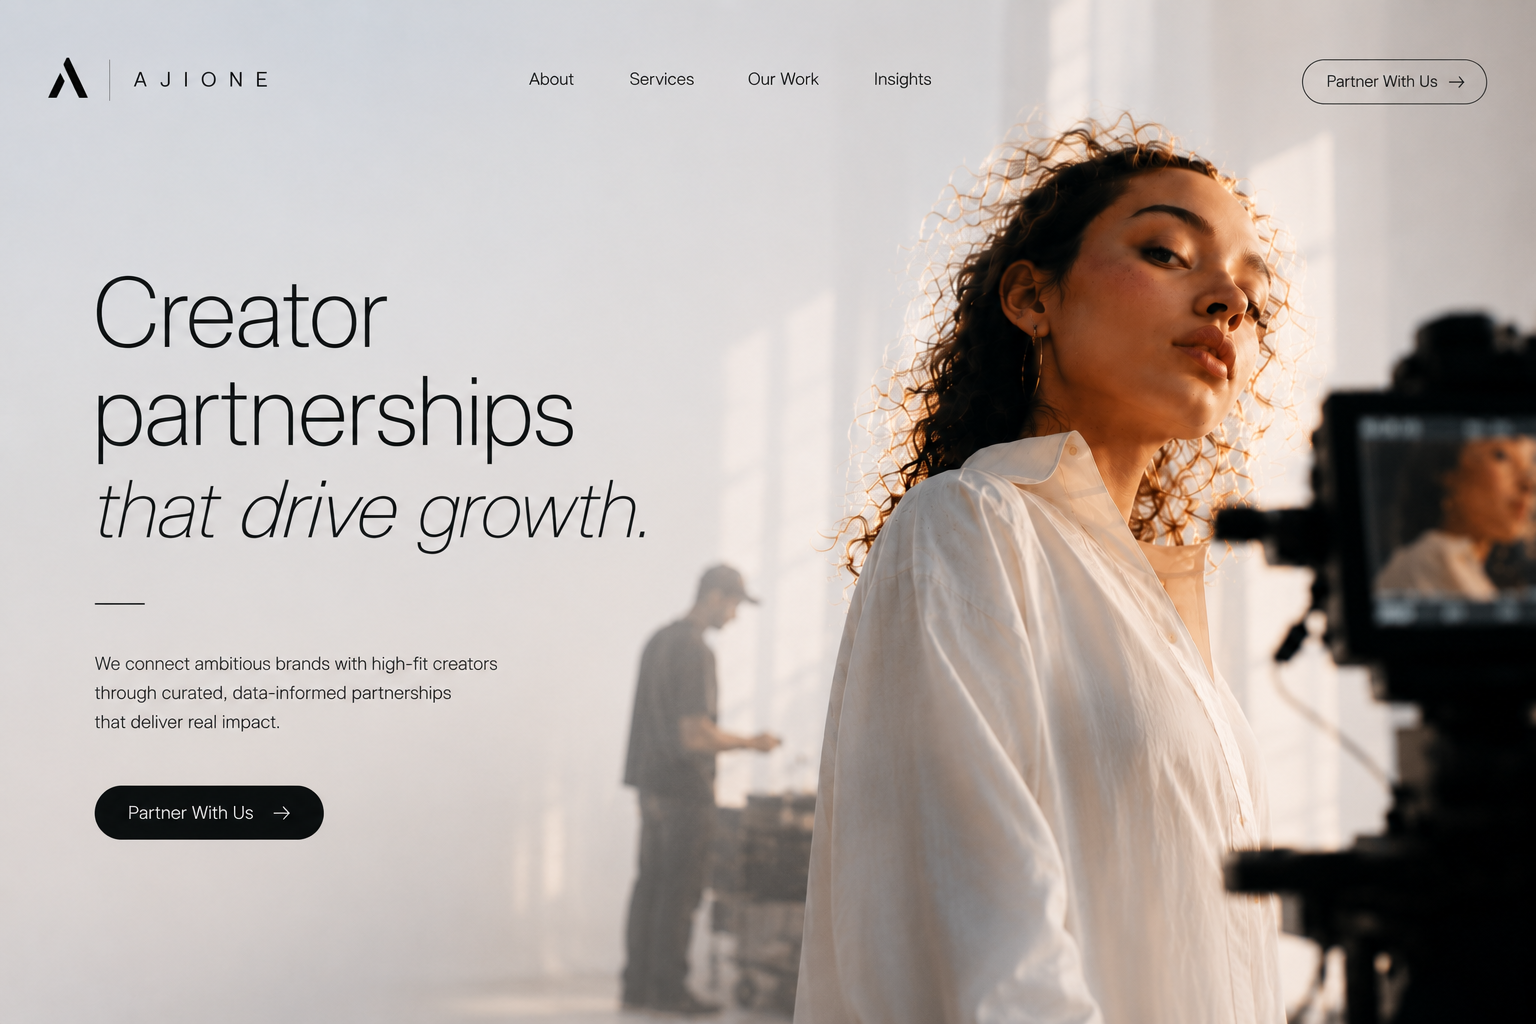
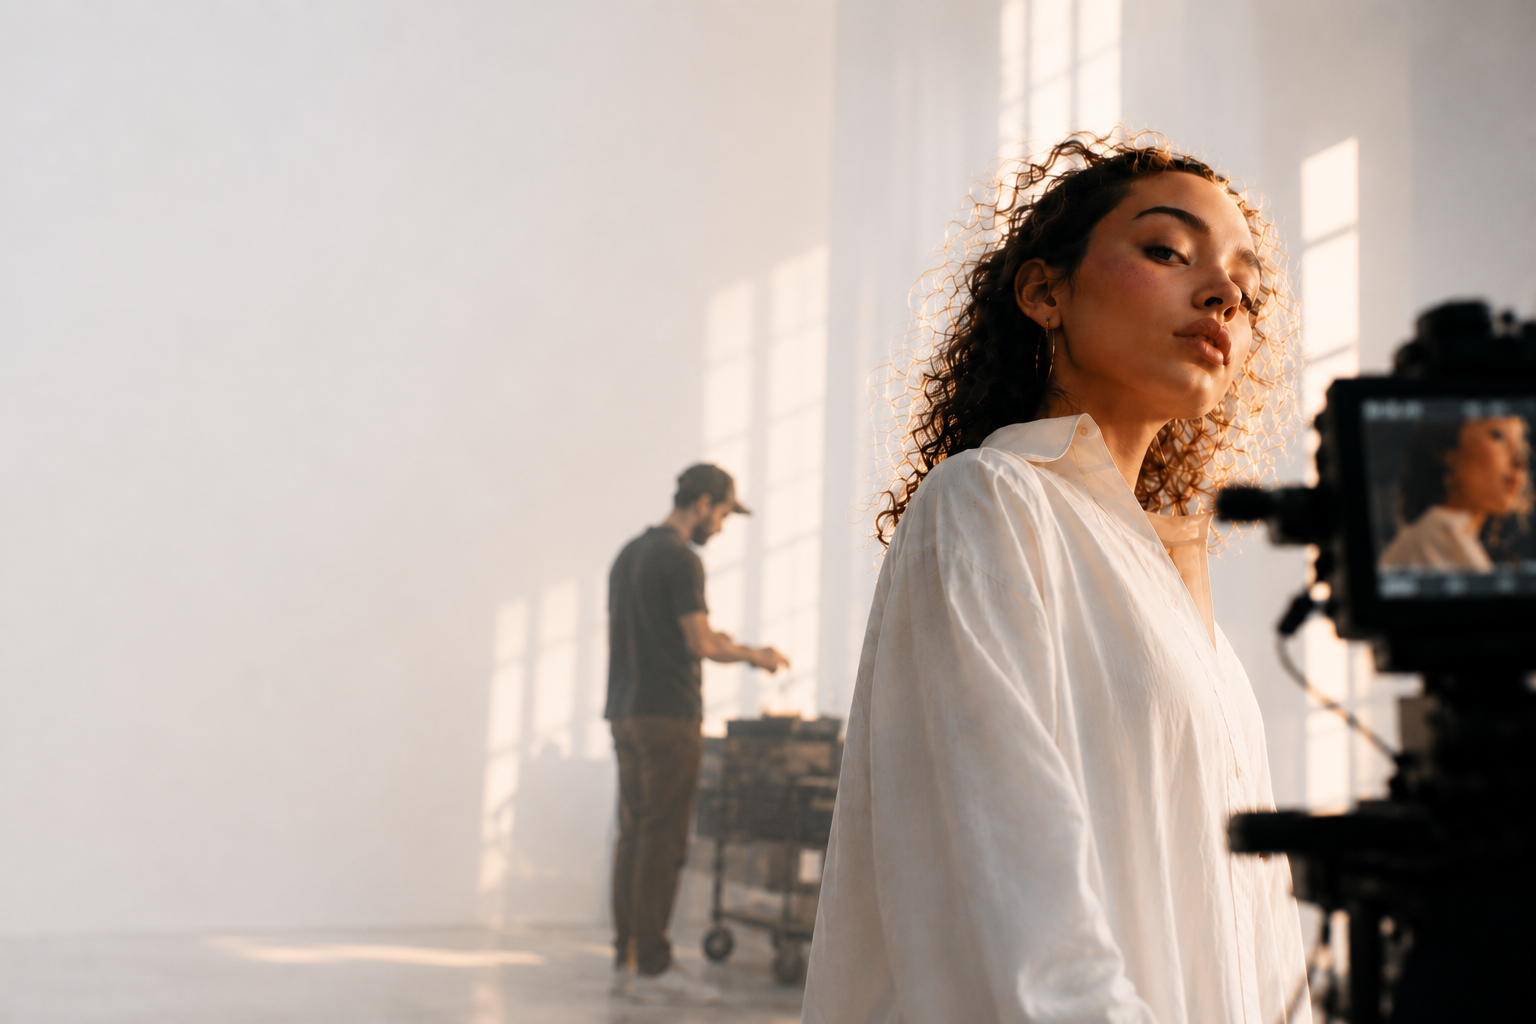
Use clean hero photography

diff --git a/styles.css b/styles.css
@@ -62,7 +62,7 @@ a {
   z-index: -1;
   pointer-events: none;
   background:
-    linear-gradient(90deg, rgba(243, 241, 236, 0.94) 0%, rgba(243, 241, 236, 0.86) 38%, rgba(243, 241, 236, 0.2) 58%, rgba(243, 241, 236, 0) 78%),
+    linear-gradient(90deg, rgba(243, 241, 236, 0.44) 0%, rgba(243, 241, 236, 0.22) 38%, rgba(243, 241, 236, 0.04) 64%, rgba(243, 241, 236, 0) 82%),
     linear-gradient(180deg, rgba(255, 255, 255, 0.26) 0%, rgba(255, 255, 255, 0) 22%);
 }
 
